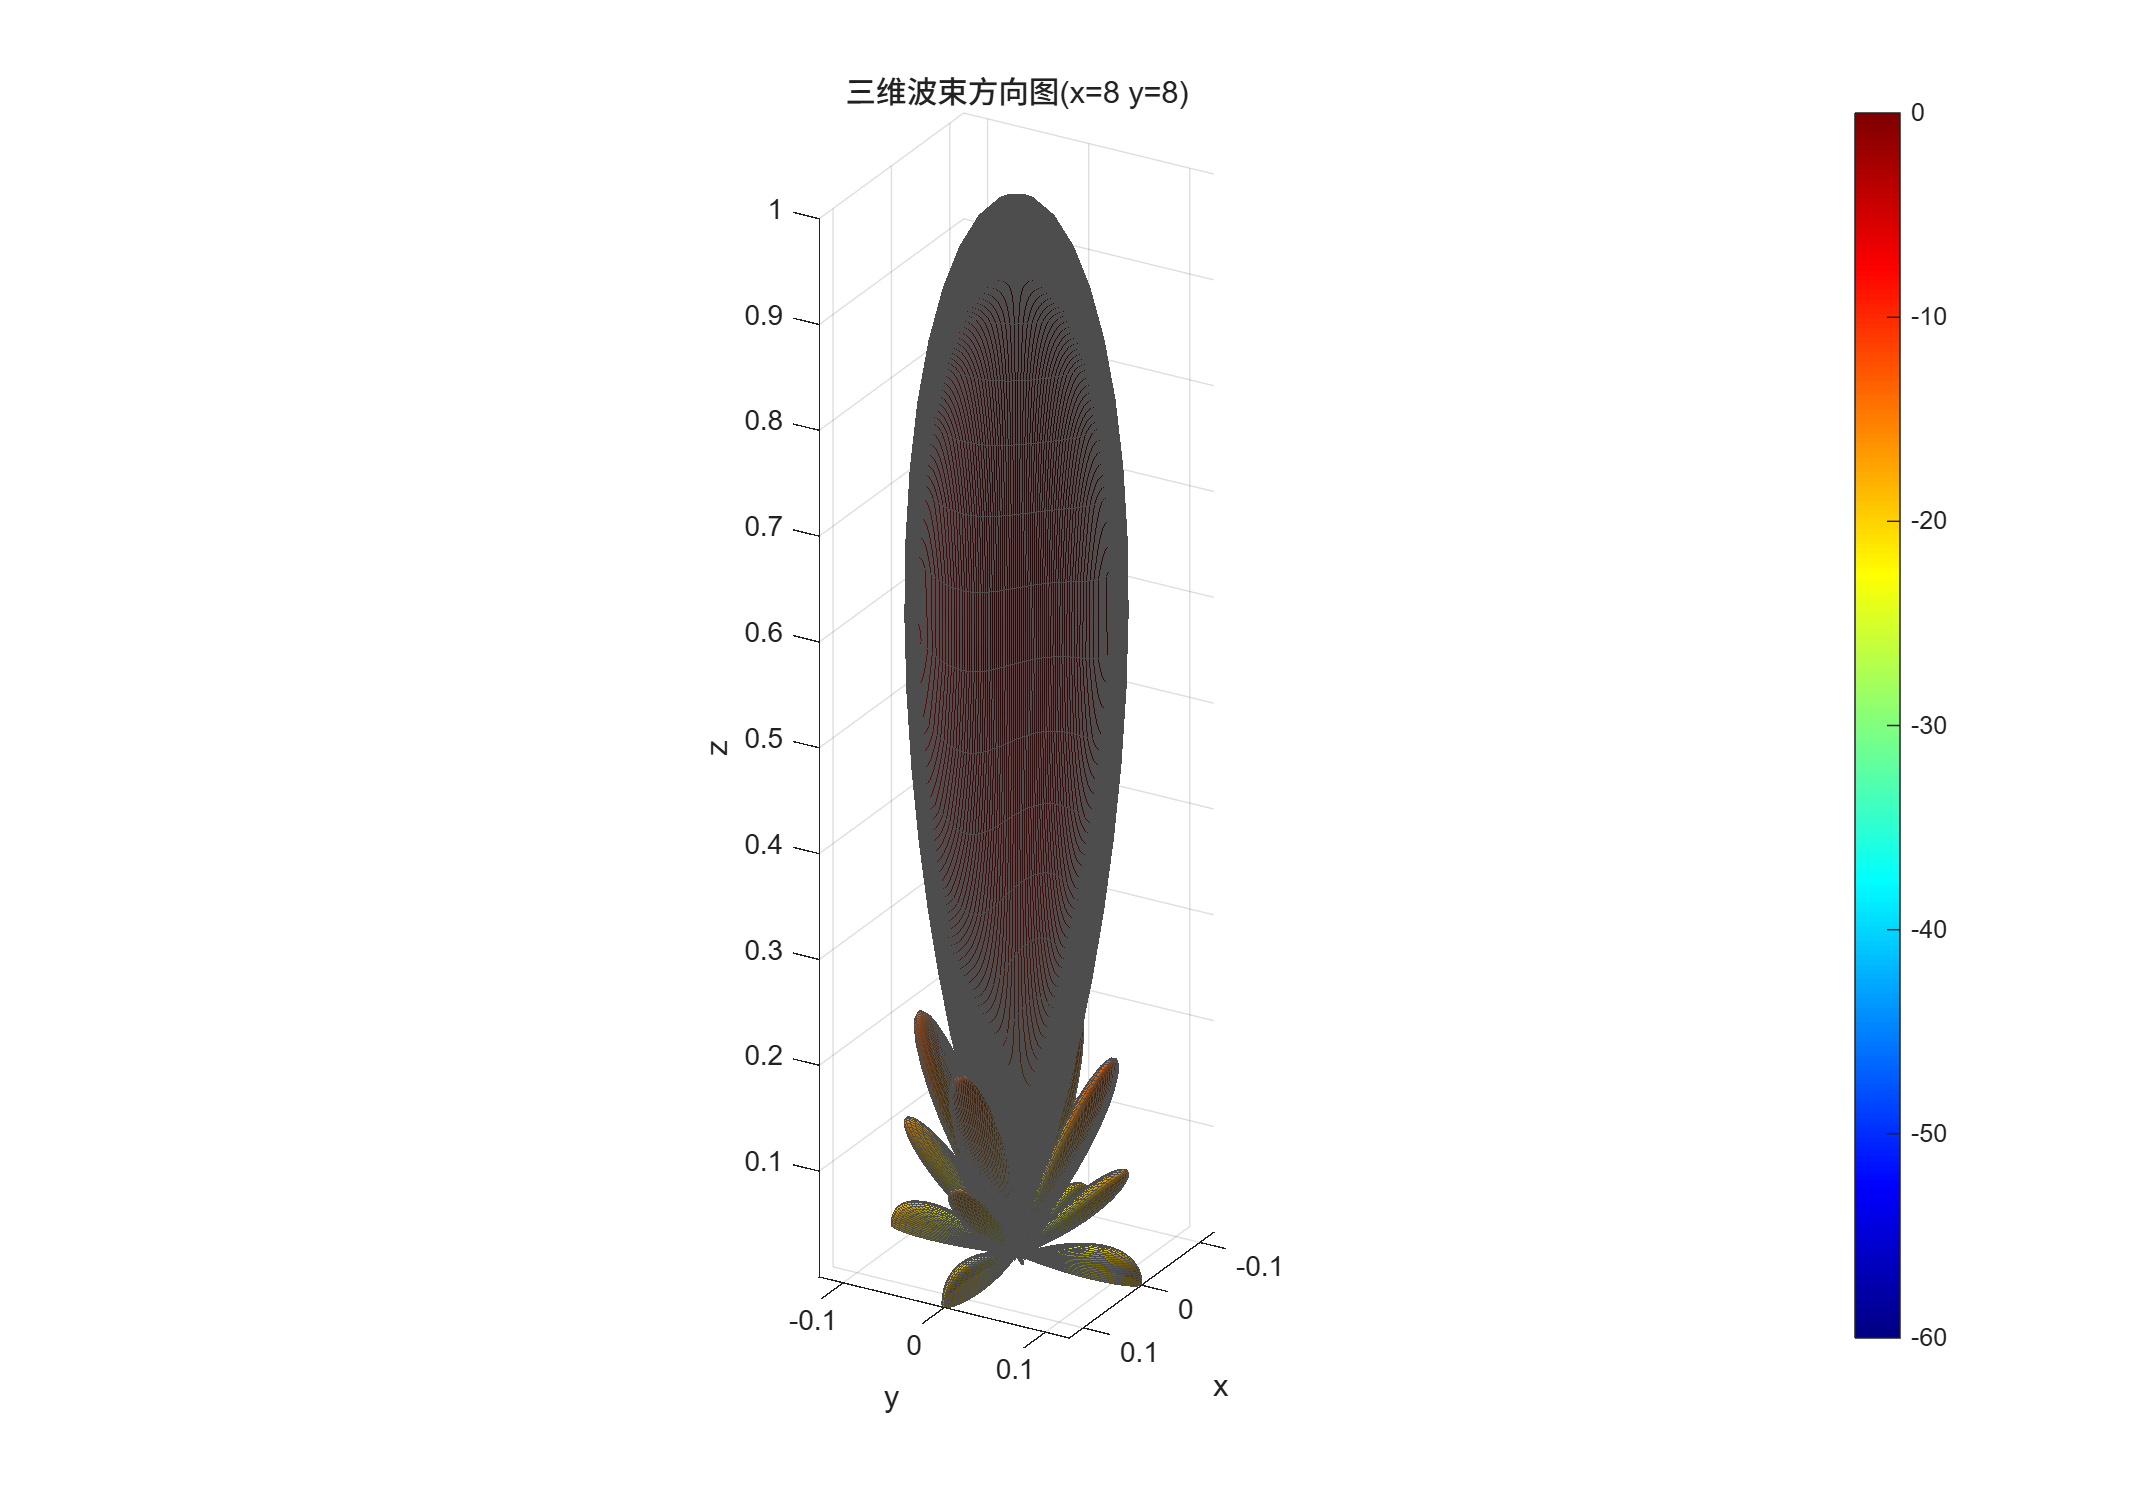
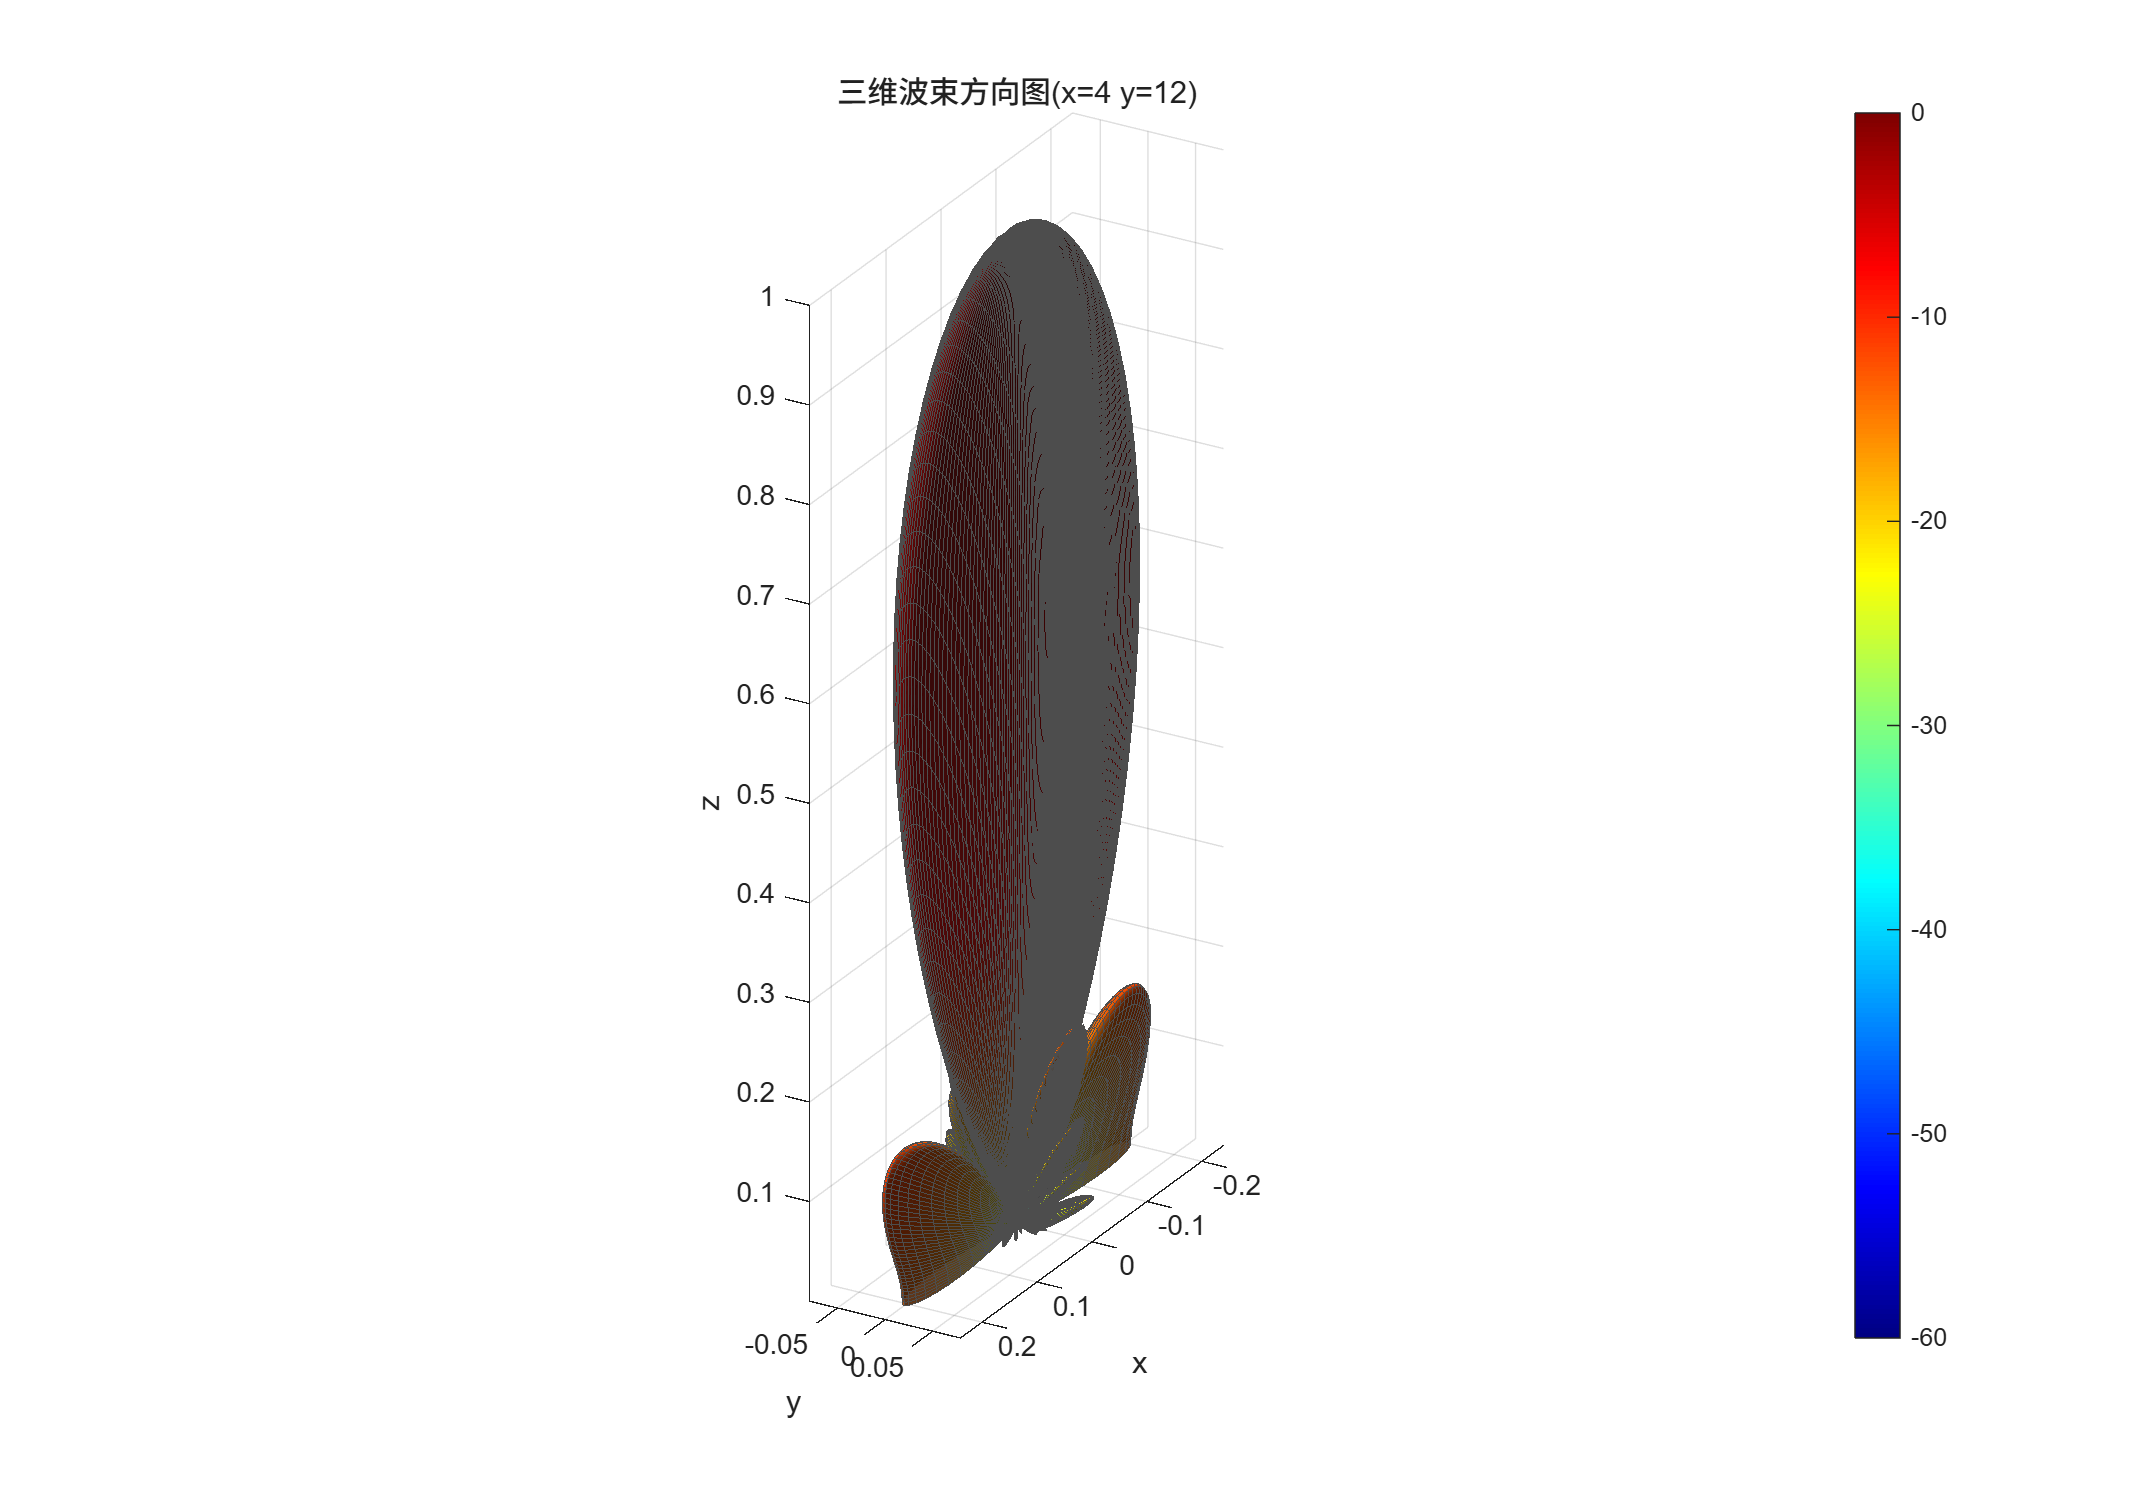
update 2d pattern plots and sim script

diff --git a/matsim/DBF_sim_2d_v102.m b/matsim/DBF_sim_2d_v102.m
@@ -19,8 +19,8 @@ N = K * (fs/fc);        % 采样点数(整周期数 -> FFT 无泄漏)
 t = (0:N-1)/fs;         % 时间轴
 
 % ===== 阵列参数(可更改) =====
-array_m = 8;            % x 向阵元数,可更改
-array_n = 8;           % y 向阵元数,可更改
+array_m = 4;            % x 向阵元数,可更改
+array_n = 12;           % y 向阵元数,可更改
 array_dx = 12.8;        % x 向阵元间距 (m),可更改
 array_dy = 12.8;        % y 向阵元间距 (m),可更改
 
